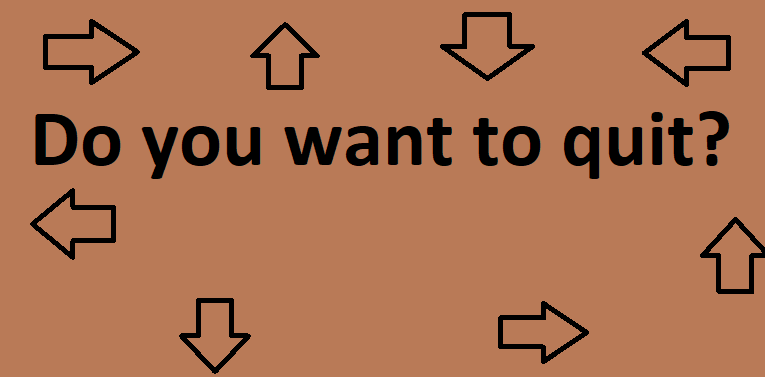
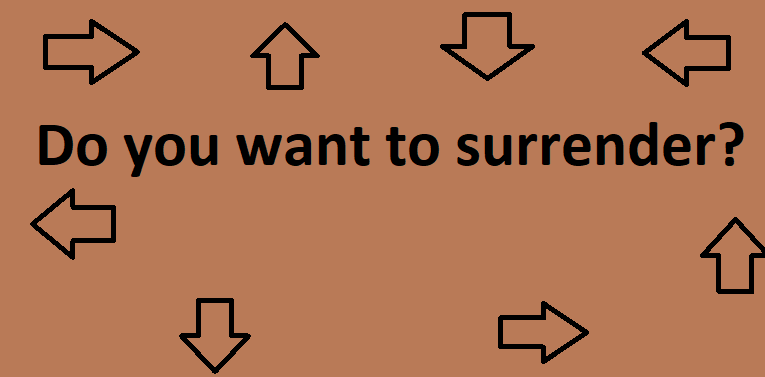
Windows added (defeat, reload, surrender)

Changed region(s): [[0.0301, 0.2918, 0.9922, 0.496]]

diff --git a/Nikoban/Menu.xaml b/Nikoban/Menu.xaml
@@ -6,8 +6,8 @@
         xmlns:gif="http://wpfanimatedgif.codeplex.com"
         xmlns:local="clr-namespace:Nikoban"
         mc:Ignorable="d"
-        Title="Menu" Height="450" Width="800"
-        WindowState="Maximized">
+        Title="Nikoban" Height="450" Width="800"
+        WindowStartupLocation="CenterScreen">
     <Grid>
         <MediaElement LoadedBehavior="Manual" Name="mediaElement1" VerticalAlignment="Top" Visibility="Hidden"/>
         <MediaElement LoadedBehavior="Manual" Name="jojo" VerticalAlignment="Top" Visibility="Hidden"/>
@@ -111,7 +111,7 @@
                     <RowDefinition Height="1*"/>
                 </Grid.RowDefinitions>
                 <Label Content="Choose a game mode!" Foreground="White" FontSize="18" HorizontalContentAlignment="Center" VerticalContentAlignment="Center" FontFamily="DigifaceWide" Grid.Row="0" Background="#FF0C1534"/>
-                <Button Grid.Row="1" Content="Palythrough" VerticalAlignment="Center" HorizontalAlignment="Center" HorizontalContentAlignment="Center" VerticalContentAlignment="Center" Height="33" Width="176" RenderTransformOrigin="0.136,0.335" Foreground="White" FontFamily="DigifaceWide" FontSize="18" BorderBrush="{x:Null}" Click="Button_Click_3">
+                <Button Grid.Row="1" Content="Playthrough" VerticalAlignment="Center" HorizontalAlignment="Center" HorizontalContentAlignment="Center" VerticalContentAlignment="Center" Height="33" Width="176" RenderTransformOrigin="0.136,0.335" Foreground="White" FontFamily="DigifaceWide" FontSize="18" BorderBrush="{x:Null}" Click="Button_Click_3">
                     <Button.Background>
                         <ImageBrush ImageSource="Images/menu/button1.jpg"/>
                     </Button.Background>

diff --git a/Nikoban/ReloadWindow.xaml b/Nikoban/ReloadWindow.xaml
@@ -1,0 +1,30 @@
+<Window x:Class="Nikoban.ReloadWindow"
+        xmlns="http://schemas.microsoft.com/winfx/2006/xaml/presentation"
+        xmlns:x="http://schemas.microsoft.com/winfx/2006/xaml"
+        xmlns:d="http://schemas.microsoft.com/expression/blend/2008"
+        xmlns:mc="http://schemas.openxmlformats.org/markup-compatibility/2006"
+        xmlns:local="clr-namespace:Nikoban"
+        mc:Ignorable="d"
+        Title="Do you want to try again?" Height="450" Width="800"
+        WindowStartupLocation="CenterScreen"
+        KeyDown="Window_KeyDown">
+    <Grid>
+        <Grid.RowDefinitions>
+            <RowDefinition Height="118*"/>
+            <RowDefinition Height="37*"/>
+            <RowDefinition Height="62*"/>
+        </Grid.RowDefinitions>
+        <Grid.ColumnDefinitions>
+            <ColumnDefinition Width="170*"/>
+            <ColumnDefinition Width="173*"/>
+            <ColumnDefinition Width="131*"/>
+            <ColumnDefinition Width="173*"/>
+            <ColumnDefinition Width="170*"/>
+        </Grid.ColumnDefinitions>
+        <Grid.Background>
+            <ImageBrush ImageSource="Images/stuckmenu/reload.png"/>
+        </Grid.Background>
+        <Button Grid.Column="1" Grid.Row="1" BorderBrush="Black" BorderThickness="10" Content="YES" FontSize="30" Click="Button_Click"/>
+        <Button Grid.Column="3" Grid.Row="1" BorderBrush="Black" BorderThickness="10" Content="NO" FontSize="30" Click="Button_Click_1"/>
+    </Grid>
+</Window>

diff --git a/Nikoban/DefeatWindow.xaml b/Nikoban/DefeatWindow.xaml
@@ -1,0 +1,27 @@
+<Window x:Class="Nikoban.DefeatWindow"
+        xmlns="http://schemas.microsoft.com/winfx/2006/xaml/presentation"
+        xmlns:x="http://schemas.microsoft.com/winfx/2006/xaml"
+        xmlns:d="http://schemas.microsoft.com/expression/blend/2008"
+        xmlns:mc="http://schemas.openxmlformats.org/markup-compatibility/2006"
+        xmlns:local="clr-namespace:Nikoban"
+        mc:Ignorable="d"
+        Title="Defeat!" Height="450" Width="800"
+        KeyDown="Window_KeyDown"
+        WindowStartupLocation="CenterScreen">
+    <Grid>
+        <Grid.RowDefinitions>
+            <RowDefinition Height="132*"/>
+            <RowDefinition Height="42*"/>
+            <RowDefinition Height="43*"/>
+        </Grid.RowDefinitions>
+        <Grid.ColumnDefinitions>
+            <ColumnDefinition Width="309*"/>
+            <ColumnDefinition Width="203*"/>
+            <ColumnDefinition Width="288*"/>
+        </Grid.ColumnDefinitions>
+        <Grid.Background>
+            <ImageBrush ImageSource="Images/stuckmenu/defeat.png"/>
+        </Grid.Background>
+        <Button Grid.Row="1" Grid.Column="1" BorderBrush="Black" BorderThickness="10" Content="OK" FontSize="30" Click="Button_Click" Margin="0,1,0,0"/>
+    </Grid>
+</Window>

diff --git a/Nikoban/LevelWindow.xaml b/Nikoban/LevelWindow.xaml
@@ -6,7 +6,7 @@
         xmlns:local="clr-namespace:Nikoban"
         xmlns:renderer="clr-namespace:Nikoban.Renderer"
         mc:Ignorable="d"
-        Title="LevelWindow" Height="450" Width="800" SizeChanged="Window_SizeChanged" Loaded="Window_Loaded" KeyDown="Window_KeyDown" Closed="Window_Closed"
+        Title="Nikoban" Height="450" Width="800" SizeChanged="Window_SizeChanged" Loaded="Window_Loaded" KeyDown="Window_KeyDown" Closed="Window_Closed"
         WindowState="Maximized">
     <Grid x:Name="grid">
         <Grid.RowDefinitions>

diff --git a/Nikoban/ScoreWindow.xaml b/Nikoban/ScoreWindow.xaml
@@ -6,7 +6,8 @@
         xmlns:local="clr-namespace:Nikoban"
         xmlns:l="clr-namespace:Nikoban.Logic"
         mc:Ignorable="d"
-        Title="ScoreWindow" Height="352" Width="347">
+        Title="ScoreWindow" Height="352" Width="347"
+        WindowStartupLocation="CenterScreen">
     <Grid Background="#FF0C1534">
         <Grid.RowDefinitions>
             <RowDefinition Height="1*"/>

diff --git a/Nikoban/Logic/GameLogic.cs b/Nikoban/Logic/GameLogic.cs
@@ -45,7 +45,7 @@ namespace Nikoban.Logic
             this.gameMode = gm;
             r = new Random();
             levelIndex = 0;
-            score = 100;
+            score = 0;
             Life = 3;
             levels = new List<string>();
             foreach (var item in Directory.GetFiles(Path.Combine(Directory.GetCurrentDirectory(), "Levels")))
@@ -65,6 +65,7 @@ namespace Nikoban.Logic
         private void LoadMap(string path)
         {
             string[] lines = File.ReadAllLines(path);
+            score += 100;
             Map = new GameItem[int.Parse(lines[0]), int.Parse(lines[1])];
             TargetCheckMap = new bool[int.Parse(lines[0]), int.Parse(lines[1])];
             for (int i = 0; i < Map.GetLength(0); i++)
@@ -171,14 +172,10 @@ namespace Nikoban.Logic
             }
             if (direction == Direction.escape)
             {
-                ExitWindow window = new ExitWindow();
-                window.ShowDialog();
-                if(window.DialogResult==true)
+                ExitWindow exitwindow = new ExitWindow();
+                exitwindow.ShowDialog();
+                if(exitwindow.DialogResult==true)
                 {
-                    if (gameMode == GameMode.playthrough)
-                    {
-                        score -= 100;
-                    }
                     foreach (var item in Application.Current.Windows)
                     {
                         if (item is LevelWindow)
@@ -189,11 +186,13 @@ namespace Nikoban.Logic
                 }
                 else
                 {
-                    if (MessageBox.Show("Do you want to reload the game?", "", MessageBoxButton.YesNo) == MessageBoxResult.Yes)
+                    ReloadWindow reloadwindow = new ReloadWindow();
+                    reloadwindow.ShowDialog();
+                    if (reloadwindow.DialogResult==true)
                     {
                         if (gameMode == GameMode.playthrough)
                         {
-                            score--;
+                            score-=110; //-10 pont az újrakezdésért, -100, mert újra betölti a pályát
                             LoadMap(levels[levelIndex]);
                         }
                         else
@@ -224,8 +223,9 @@ namespace Nikoban.Logic
                                 }
                             }
                         }
-                        StuckWindow window = new StuckWindow();
-                        window.ShowDialog();
+                        StuckWindow stuckwindow = new StuckWindow();
+                        stuckwindow.ShowDialog();
+                        score-= 100;
                         LoadMap(levels[levelIndex]);
                     }
                     else
@@ -257,7 +257,8 @@ namespace Nikoban.Logic
                                 (item as LevelWindow).hp_bar.Source = new BitmapImage(new Uri("Images/hpbars/hpbar0.png", UriKind.RelativeOrAbsolute));
                             }
                         }
-                        MessageBox.Show($"Defeat! Your score is: {score}");
+                        DefeatWindow defeatwindow = new DefeatWindow();
+                        defeatwindow.ShowDialog();
                     }
                     else
                     {
@@ -279,7 +280,6 @@ namespace Nikoban.Logic
                 {
                     MessageBox.Show($"{score}");
                     levelIndex++;
-                    score += 100;
                     LoadMap(levels[levelIndex]);
                 }
                 else if (levelIndex > levels.Count && gameMode == GameMode.playthrough)

diff --git a/Nikoban/ReloadWindow.xaml.cs b/Nikoban/ReloadWindow.xaml.cs
@@ -1,0 +1,49 @@
+using System;
+using System.Collections.Generic;
+using System.Linq;
+using System.Text;
+using System.Threading.Tasks;
+using System.Windows;
+using System.Windows.Controls;
+using System.Windows.Data;
+using System.Windows.Documents;
+using System.Windows.Input;
+using System.Windows.Media;
+using System.Windows.Media.Imaging;
+using System.Windows.Shapes;
+
+namespace Nikoban
+{
+    /// <summary>
+    /// Interaction logic for ReloadWindow.xaml
+    /// </summary>
+    public partial class ReloadWindow : Window
+    {
+        public ReloadWindow()
+        {
+            InitializeComponent();
+        }
+
+        private void Button_Click(object sender, RoutedEventArgs e)
+        {
+            DialogResult = true;
+        }
+
+        private void Button_Click_1(object sender, RoutedEventArgs e)
+        {
+            Close();
+        }
+
+        private void Window_KeyDown(object sender, KeyEventArgs e)
+        {
+            if(e.Key==Key.Escape)
+            {
+                Close();
+            }
+            else if(e.Key==Key.Enter)
+            {
+                DialogResult = true;
+            }
+        }
+    }
+}

diff --git a/Nikoban/DefeatWindow.xaml.cs b/Nikoban/DefeatWindow.xaml.cs
@@ -1,0 +1,40 @@
+using System;
+using System.Collections.Generic;
+using System.Linq;
+using System.Text;
+using System.Threading.Tasks;
+using System.Windows;
+using System.Windows.Controls;
+using System.Windows.Data;
+using System.Windows.Documents;
+using System.Windows.Input;
+using System.Windows.Media;
+using System.Windows.Media.Imaging;
+using System.Windows.Shapes;
+
+namespace Nikoban
+{
+    /// <summary>
+    /// Interaction logic for DefeatWindow.xaml
+    /// </summary>
+    public partial class DefeatWindow : Window
+    {
+        public DefeatWindow()
+        {
+            InitializeComponent();
+        }
+
+        private void Button_Click(object sender, RoutedEventArgs e)
+        {
+            DialogResult = true;
+        }
+
+        private void Window_KeyDown(object sender, KeyEventArgs e)
+        {
+            if(e.Key==Key.Enter)
+            {
+                DialogResult = true;
+            }
+        }
+    }
+}
